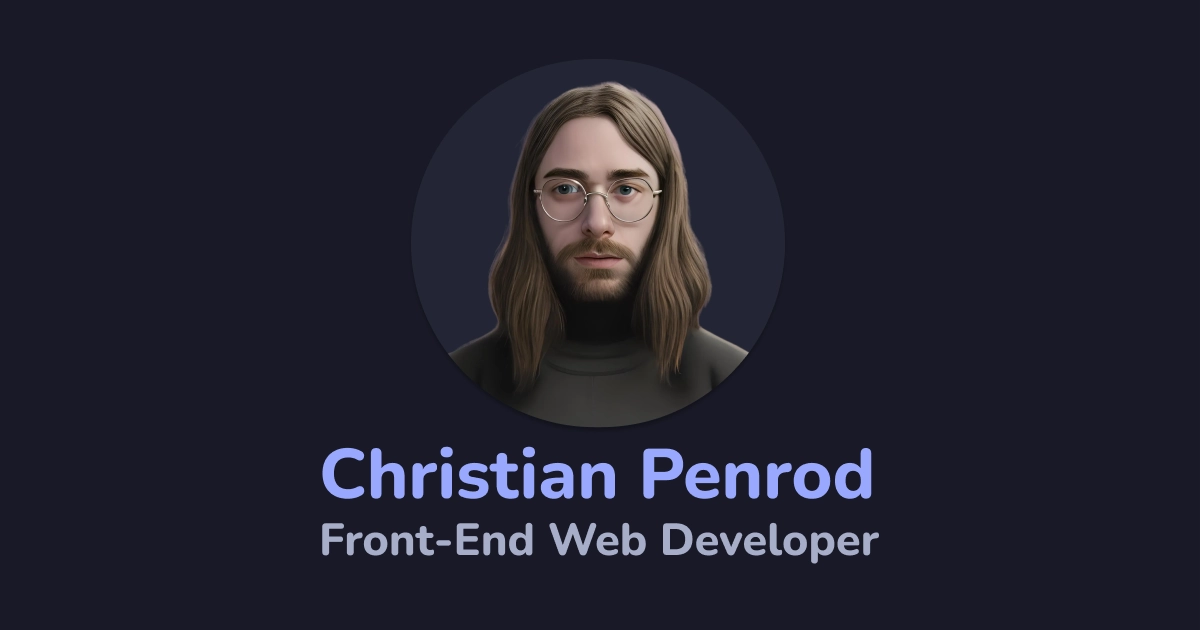
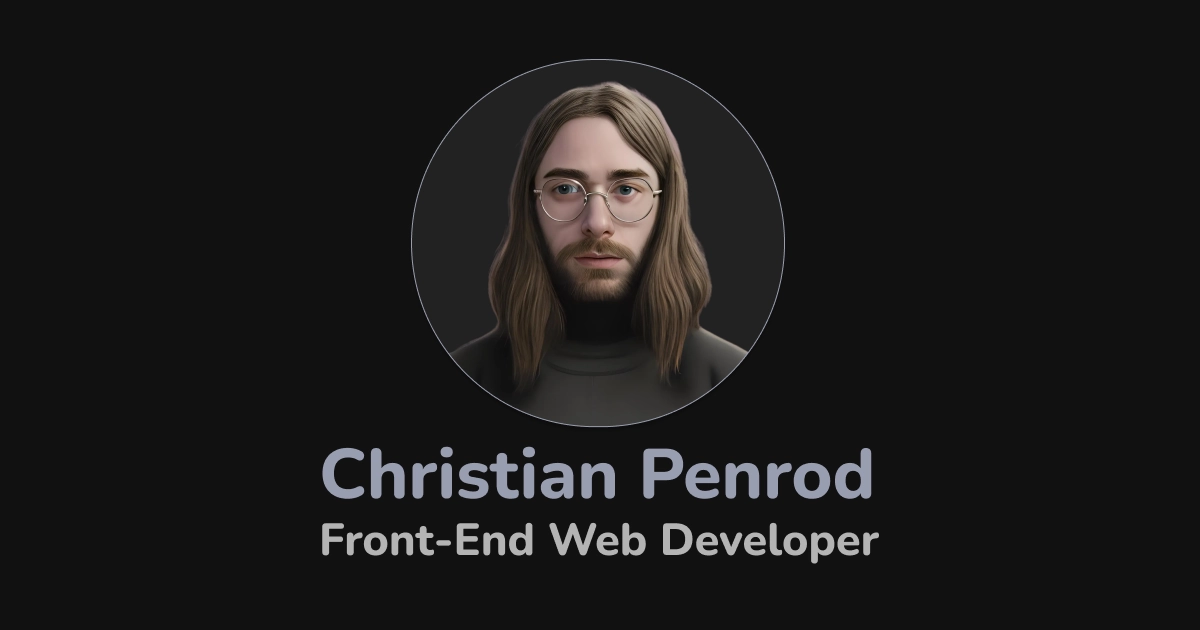
feature/theme

diff --git a/src/pages/open-graph/[...slug].ts b/src/pages/open-graph/[...slug].ts
@@ -11,19 +11,19 @@ export const { getStaticPaths, get } = OGImageRoute({
       title: post.frontmatter.title,
       description: `\n\n\n\n${published}        ${readingTime}`,
       logo: { path: './public/og-banner.webp', size: [300] },
-      bgGradient: [[24, 25, 38]],
-      border: { color: [153, 168, 255], width: 20 },
+      bgGradient: [[17, 17, 17]],
+      border: { color: [166, 173, 200], width: 20 },
       font: {
         title: {
           families: ['Nunito'],
           size: 70,
-          color: [153, 168, 255],
+          color: [166, 173, 200],
           weight: 'ExtraBold',
         },
         description: {
           families: ['Nunito'],
           size: 30,
-          color: [166, 173, 200],
+          color: [181, 180, 180],
           weight: 'SemiBold',
         },
       },
